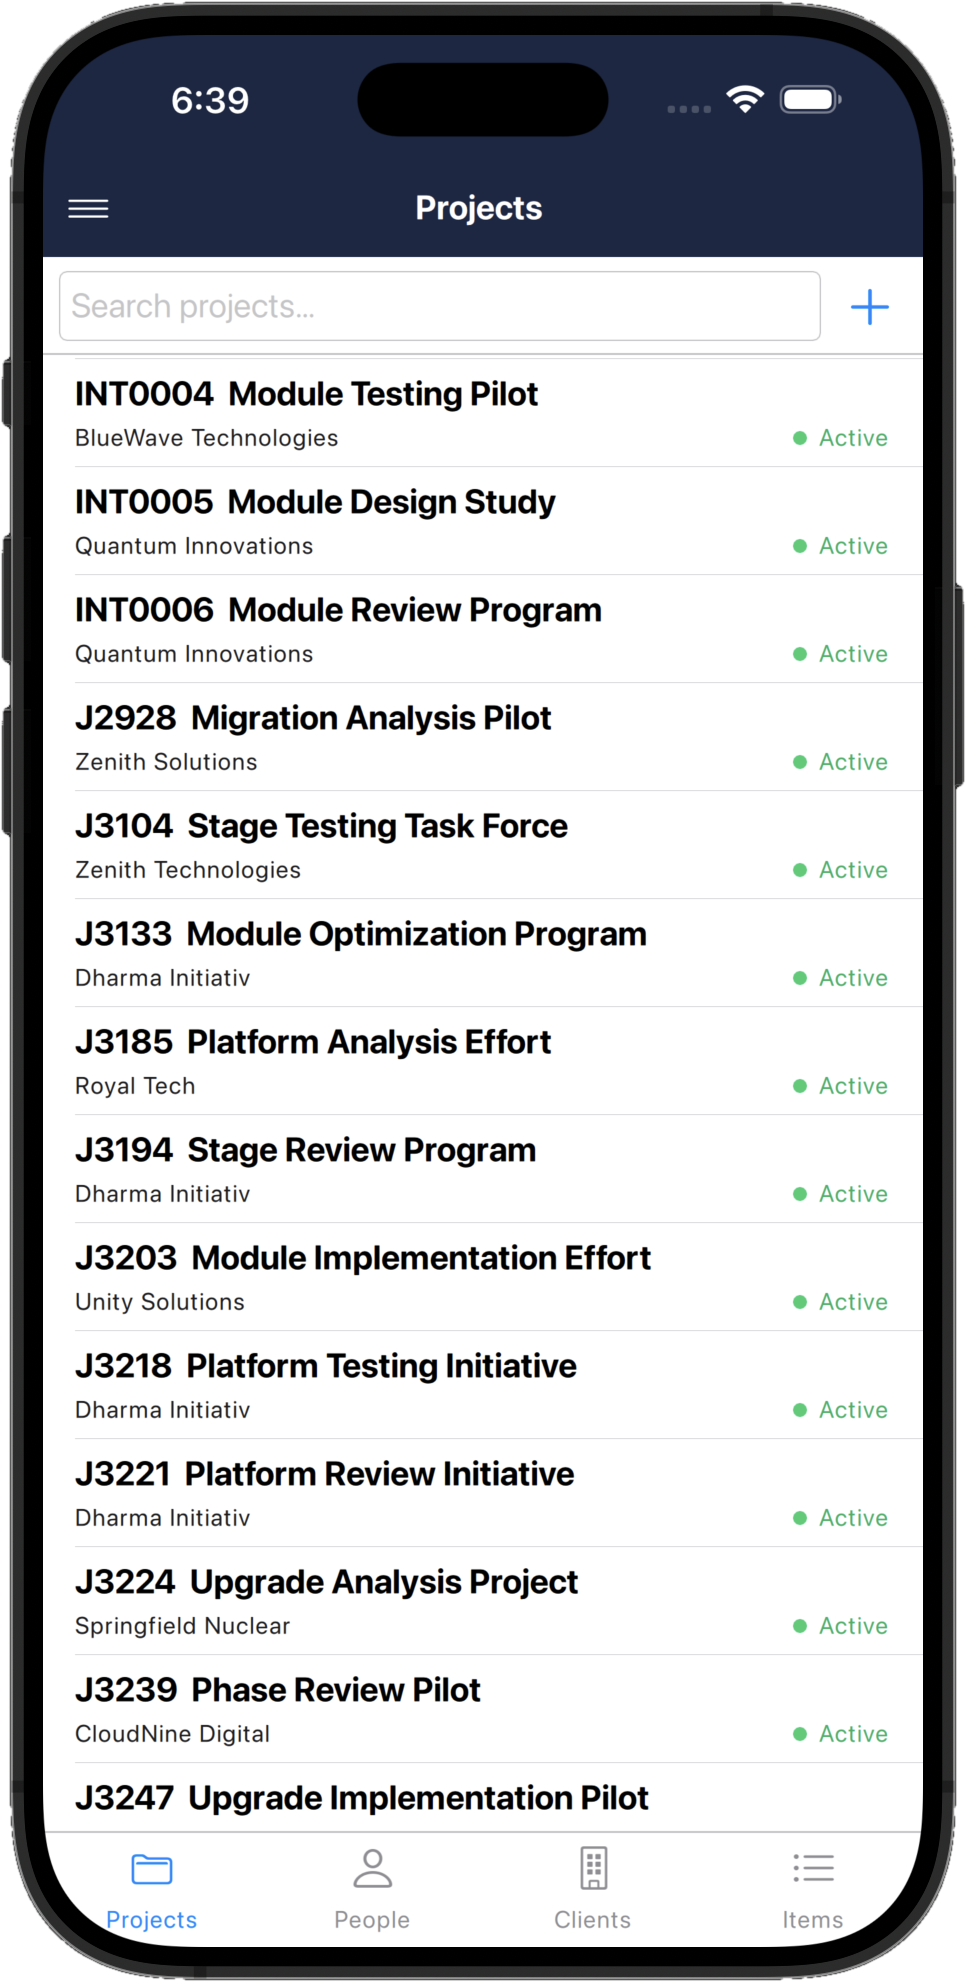
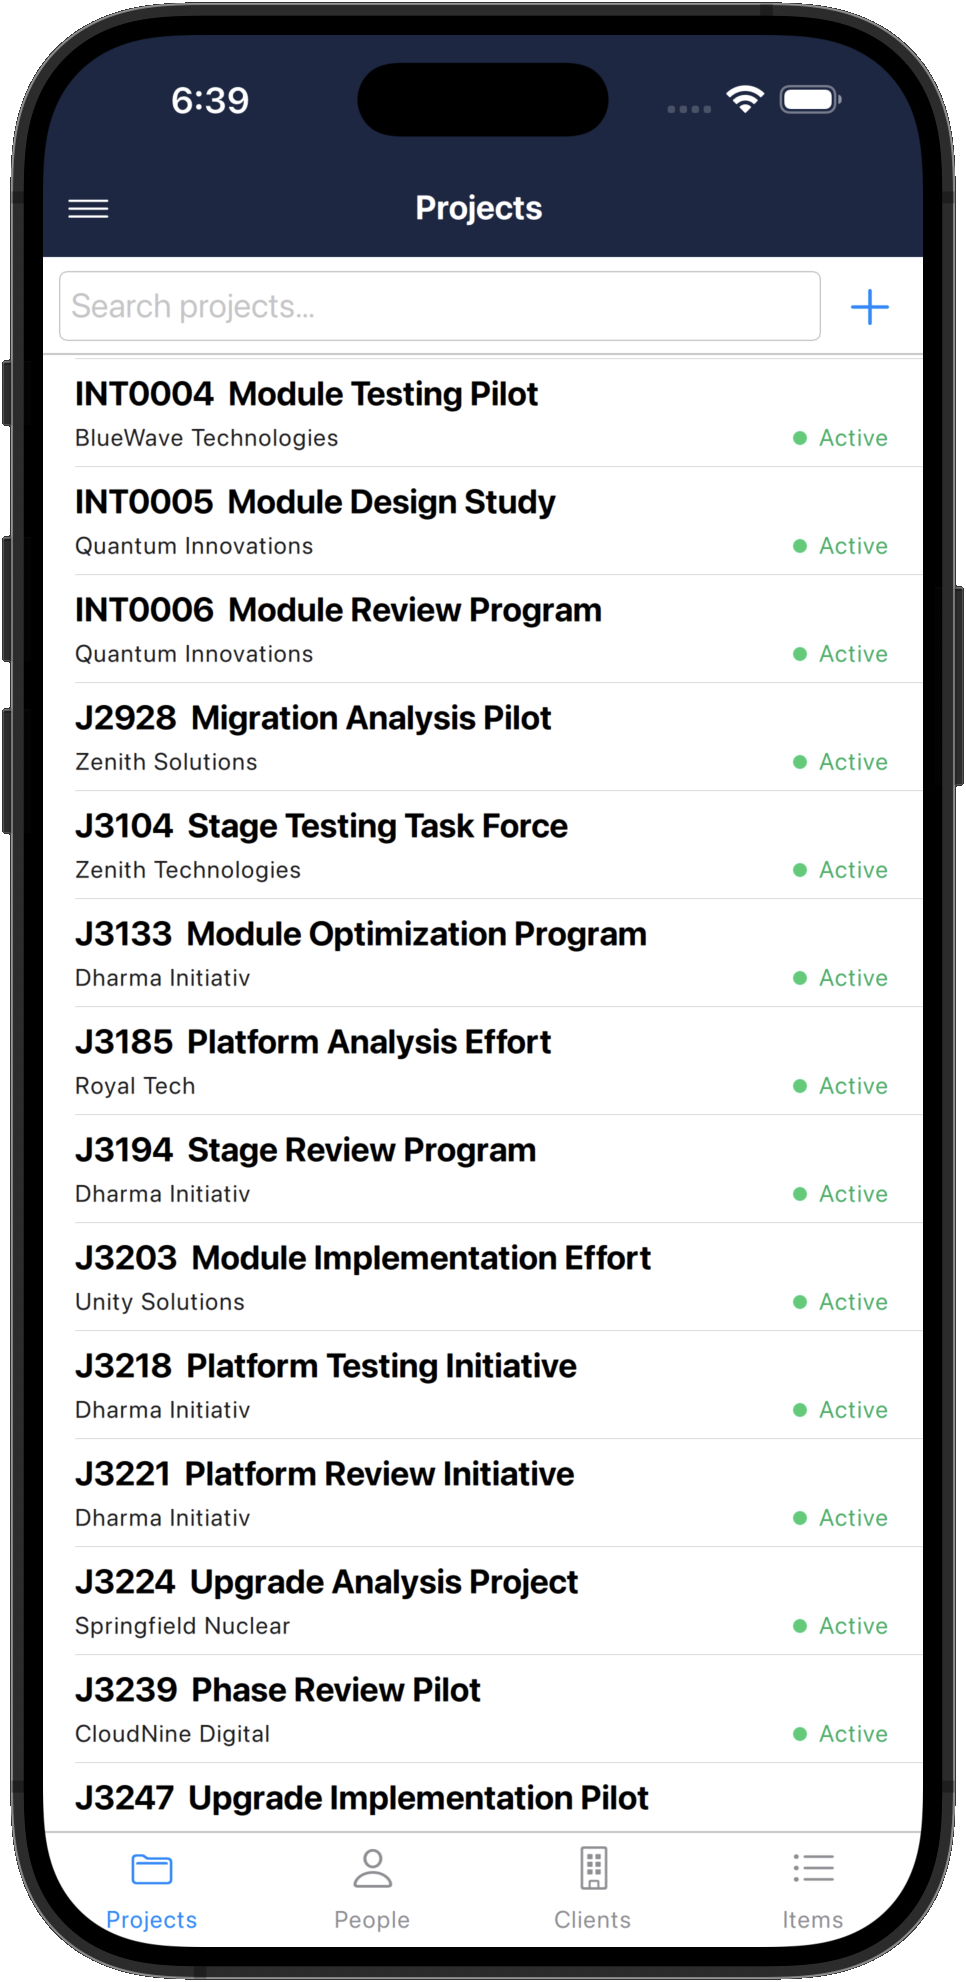
Update Sqlite Sync Pro screenshots

Changed region(s): [[0.9938, 0.277, 1.0, 0.4001]]

diff --git a/projects/sqlitesyncpro.html b/projects/sqlitesyncpro.html
@@ -101,100 +101,33 @@
         <p class="wide-copy showcase-intro reveal">
           Sqlite Sync Pro supports the synchronization layer behind Project Notes, where local
           SQLite data can stay fast on each device while selected records move through a remote
-          PostgreSQL/PostgREST host. These screens show the practical surfaces around that flow:
-          host setup, user access, client settings, live sync stats, and cross-platform app use.
+          PostgreSQL/PostgREST host. These current Project Notes screens show the client-side
+          surfaces that benefit from that shared, cross-platform data model.
         </p>
-
-        <div class="feature-showcase">
-          <div class="gallery-item-wrapper reveal reveal-delay-1" data-lightbox-src="/images/pn-screenshots/pn-sync-stats-windows.png" data-lightbox-caption="Bidirectional sync visibility: Upload and download activity is visible by cycle and by table, giving desktop applications a way to monitor what moved between local SQLite and the shared host.">
-            <figure class="screenshot-card screenshot-card-large">
-              <div class="screenshot-frame desktop-frame">
-                <img src="/images/pn-screenshots/pn-sync-stats-windows.png" alt="Sync network statistics on Windows showing upload and download activity by table." style="object-fit: contain; transform: none;">
-              </div>
-              <figcaption>
-                <strong>Bidirectional sync visibility</strong>
-                <span>
-                  Upload and download activity is visible by cycle and by table, giving desktop
-                  applications a way to monitor what moved between local SQLite and the shared host.
-                </span>
-              </figcaption>
-            </figure>
-          </div>
-
-          <div class="feature-stack">
-            <div class="gallery-item-wrapper reveal reveal-delay-2" data-lightbox-src="/images/pn-screenshots/pn-remote-host-user-setup.png" data-lightbox-caption="Remote user provisioning: Sync users map to PostgreSQL roles so access can be managed outside the local app.">
-              <figure class="screenshot-card">
-                <div class="screenshot-frame desktop-frame">
-                  <img src="/images/pn-screenshots/pn-remote-host-user-setup.png" alt="Remote host user setup showing PostgreSQL sync users." style="object-fit: contain; transform: none;">
-                </div>
-                <figcaption>
-                  <strong>Remote user provisioning</strong>
-                  <span>Sync users map to PostgreSQL roles so access can be managed outside the local app.</span>
-                </figcaption>
-              </figure>
-            </div>
-
-            <div class="gallery-item-wrapper reveal reveal-delay-3" data-lightbox-src="/images/pn-screenshots/pn-sync-settings-dark-mode-linux.png" data-lightbox-caption="Client-side sync settings: Each client can enable cloud sync, choose a host type, authenticate, and set an encryption phrase.">
-              <figure class="screenshot-card">
-                <div class="screenshot-frame desktop-frame">
-                  <img src="/images/pn-screenshots/pn-sync-settings-dark-mode-linux.png" alt="Project Notes sync settings on Linux for a self-hosted PostgREST server." style="object-fit: contain; transform: none;">
-                </div>
-                <figcaption>
-                  <strong>Client-side sync settings</strong>
-                  <span>Each client can enable cloud sync, choose a host type, authenticate, and set an encryption phrase.</span>
-                </figcaption>
-              </figure>
-            </div>
-          </div>
-        </div>
-
         <div class="screenshot-gallery" aria-label="SQLite Sync Pro cross-platform screenshots">
-          <div class="gallery-item-wrapper reveal reveal-delay-1" data-lightbox-src="/images/pn-screenshots/pn-remote-host-server-setup.png" data-lightbox-caption="Host configuration: Self-hosted and Supabase-style PostgreSQL targets can be configured through a guided setup flow.">
-            <figure class="screenshot-card">
-              <div class="screenshot-frame desktop-frame">
-                <img src="/images/pn-screenshots/pn-remote-host-server-setup.png" alt="Remote host setup showing PostgreSQL and Supabase connection fields." style="object-fit: contain; transform: none;">
-              </div>
-              <figcaption>
-                <strong>Host configuration</strong>
-                <span>Self-hosted and Supabase-style PostgreSQL targets can be configured through a guided setup flow.</span>
-              </figcaption>
-            </figure>
+          <div class="gallery-item-wrapper reveal reveal-delay-1" data-lightbox-src="/images/pn-screenshots-new/pn-item-list-lightmode.png" data-lightbox-caption="Shared action data: Synchronized action items remain available with owners, statuses, and due dates.">
+            <figure class="screenshot-card"><div class="screenshot-frame desktop-frame"><img src="/images/pn-screenshots-new/pn-item-list-lightmode.png" alt="Project Notes Pro item list showing synchronized project action items, owners, status, and due dates."></div><figcaption><strong>Shared action data</strong><span>Synchronized action items remain available with owners, statuses, and due dates.</span></figcaption></figure>
           </div>
-
-          <div class="gallery-item-wrapper reveal reveal-delay-2" data-lightbox-src="/images/pn-screenshots/pn-project-list-dark-mode-linux.png" data-lightbox-caption="Linux desktop client: The same project data can be used from a native desktop interface in dark mode.">
-            <figure class="screenshot-card">
-              <div class="screenshot-frame desktop-frame">
-                <img src="/images/pn-screenshots/pn-project-list-dark-mode-linux.png" alt="Project Notes running on Linux in dark mode with project records." style="object-fit: contain; transform: none;">
-              </div>
-              <figcaption>
-                <strong>Linux desktop client</strong>
-                <span>The same project data can be used from a native desktop interface in dark mode.</span>
-              </figcaption>
-            </figure>
+          <div class="gallery-item-wrapper reveal reveal-delay-2" data-lightbox-src="/images/pn-screenshots-new/pn-item-detail-lightmode.png" data-lightbox-caption="Record-level detail: Local-first item views preserve notes and attachments while data is shared across devices.">
+            <figure class="screenshot-card"><div class="screenshot-frame desktop-frame"><img src="/images/pn-screenshots-new/pn-item-detail-lightmode.png" alt="Project Notes Pro item detail view showing synchronized action item details, notes, and attachments."></div><figcaption><strong>Record-level detail</strong><span>Local-first item views preserve notes and attachments while data is shared across devices.</span></figcaption></figure>
           </div>
-
-          <div class="gallery-item-wrapper reveal reveal-delay-3" data-lightbox-src="/images/pn-screenshots/pn-project-list-light-mode-macos.png" data-lightbox-caption="macOS project workspace: Local-first records remain available in the full desktop project management experience.">
-            <figure class="screenshot-card">
-              <div class="screenshot-frame desktop-frame">
-                <img src="/images/pn-screenshots/pn-project-list-light-mode-macos.png" alt="Project Notes running on macOS with project list data." style="object-fit: contain; transform: none;">
-              </div>
-              <figcaption>
-                <strong>macOS project workspace</strong>
-                <span>Local-first records remain available in the full desktop project management experience.</span>
-              </figcaption>
-            </figure>
+          <div class="gallery-item-wrapper reveal reveal-delay-3" data-lightbox-src="/images/pn-screenshots-new/pn-meeting-notes-lightmode.png" data-lightbox-caption="Meeting data: Notes, attendees, decisions, and action items travel with the project record.">
+            <figure class="screenshot-card"><div class="screenshot-frame desktop-frame"><img src="/images/pn-screenshots-new/pn-meeting-notes-lightmode.png" alt="Project Notes Pro meeting note with synchronized attendees and action items."></div><figcaption><strong>Meeting data</strong><span>Notes, attendees, decisions, and action items travel with the project record.</span></figcaption></figure>
           </div>
-
-          <div class="gallery-item-wrapper reveal reveal-delay-4" data-lightbox-src="/images/pn-screenshots/pn-project-list-dark-mode-ios.png" data-lightbox-caption="iOS mobility path: Mobile clients can participate in the same product data model for field and meeting workflows.">
-            <figure class="screenshot-card">
-              <div class="screenshot-frame phone-frame">
-                <img src="/images/pn-screenshots/pn-project-list-dark-mode-ios.png" alt="Project Notes project list on iOS in dark mode.">
-              </div>
-              <figcaption>
-                <strong>iOS mobility path</strong>
-                <span>Mobile clients can participate in the same product data model for field and meeting workflows.</span>
-              </figcaption>
-            </figure>
+          <div class="gallery-item-wrapper reveal reveal-delay-4" data-lightbox-src="/images/pn-screenshots-new/pn-file-list-lightmode.png" data-lightbox-caption="Linked project files: Shared records can keep file and folder references available across workflows.">
+            <figure class="screenshot-card"><div class="screenshot-frame desktop-frame"><img src="/images/pn-screenshots-new/pn-file-list-lightmode.png" alt="Project Notes Pro file and folder list showing linked project files and full paths."></div><figcaption><strong>Linked project files</strong><span>Shared records can keep file and folder references available across workflows.</span></figcaption></figure>
+          </div>
+          <div class="gallery-item-wrapper reveal reveal-delay-1" data-lightbox-src="/images/pn-screenshots-new/pn-search-darkmode.png" data-lightbox-caption="Cross-device search: Find synchronized notes, items, and file records from one query surface.">
+            <figure class="screenshot-card"><div class="screenshot-frame desktop-frame"><img src="/images/pn-screenshots-new/pn-search-darkmode.png" alt="Project Notes Pro dark-mode search across synchronized notes, action items, and file records."></div><figcaption><strong>Cross-device search</strong><span>Find synchronized notes, items, and file records from one query surface.</span></figcaption></figure>
+          </div>
+          <div class="gallery-item-wrapper reveal reveal-delay-2" data-lightbox-src="/images/pn-screenshots-new/pn-plugin-editing.png" data-lightbox-caption="Integration surface: Plugins can connect synchronized project data to business workflows.">
+            <figure class="screenshot-card"><div class="screenshot-frame desktop-frame"><img src="/images/pn-screenshots-new/pn-plugin-editing.png" alt="Project Notes Pro plugin editor showing Python integration code alongside the project tracker."></div><figcaption><strong>Integration surface</strong><span>Plugins can connect synchronized project data to business workflows.</span></figcaption></figure>
+          </div>
+          <div class="gallery-item-wrapper reveal reveal-delay-3" data-lightbox-src="/images/pn-screenshots-new/pn-send-notes-macos-lightmode.png" data-lightbox-caption="Shared communication: Synchronized meeting records can support follow-up messages from the desktop client.">
+            <figure class="screenshot-card"><div class="screenshot-frame desktop-frame"><img src="/images/pn-screenshots-new/pn-send-notes-macos-lightmode.png" alt="Project Notes Pro send meeting notes plugin using synchronized meeting data."></div><figcaption><strong>Shared communication</strong><span>Synchronized meeting records can support follow-up messages from the desktop client.</span></figcaption></figure>
+          </div>
+          <div class="gallery-item-wrapper reveal reveal-delay-4" data-lightbox-src="/images/pn-screenshots-new/pn-mobile-lightmode.png" data-lightbox-caption="Mobile client: Synced notes and action items remain available away from the desktop workspace.">
+            <figure class="screenshot-card"><div class="screenshot-frame phone-frame"><img src="/images/pn-screenshots-new/pn-mobile-lightmode.png" alt="Project Notes Pro mobile client showing synchronized notes and action items."></div><figcaption><strong>Mobile client</strong><span>Synced notes and action items remain available away from the desktop workspace.</span></figcaption></figure>
           </div>
         </div>
       </div>
